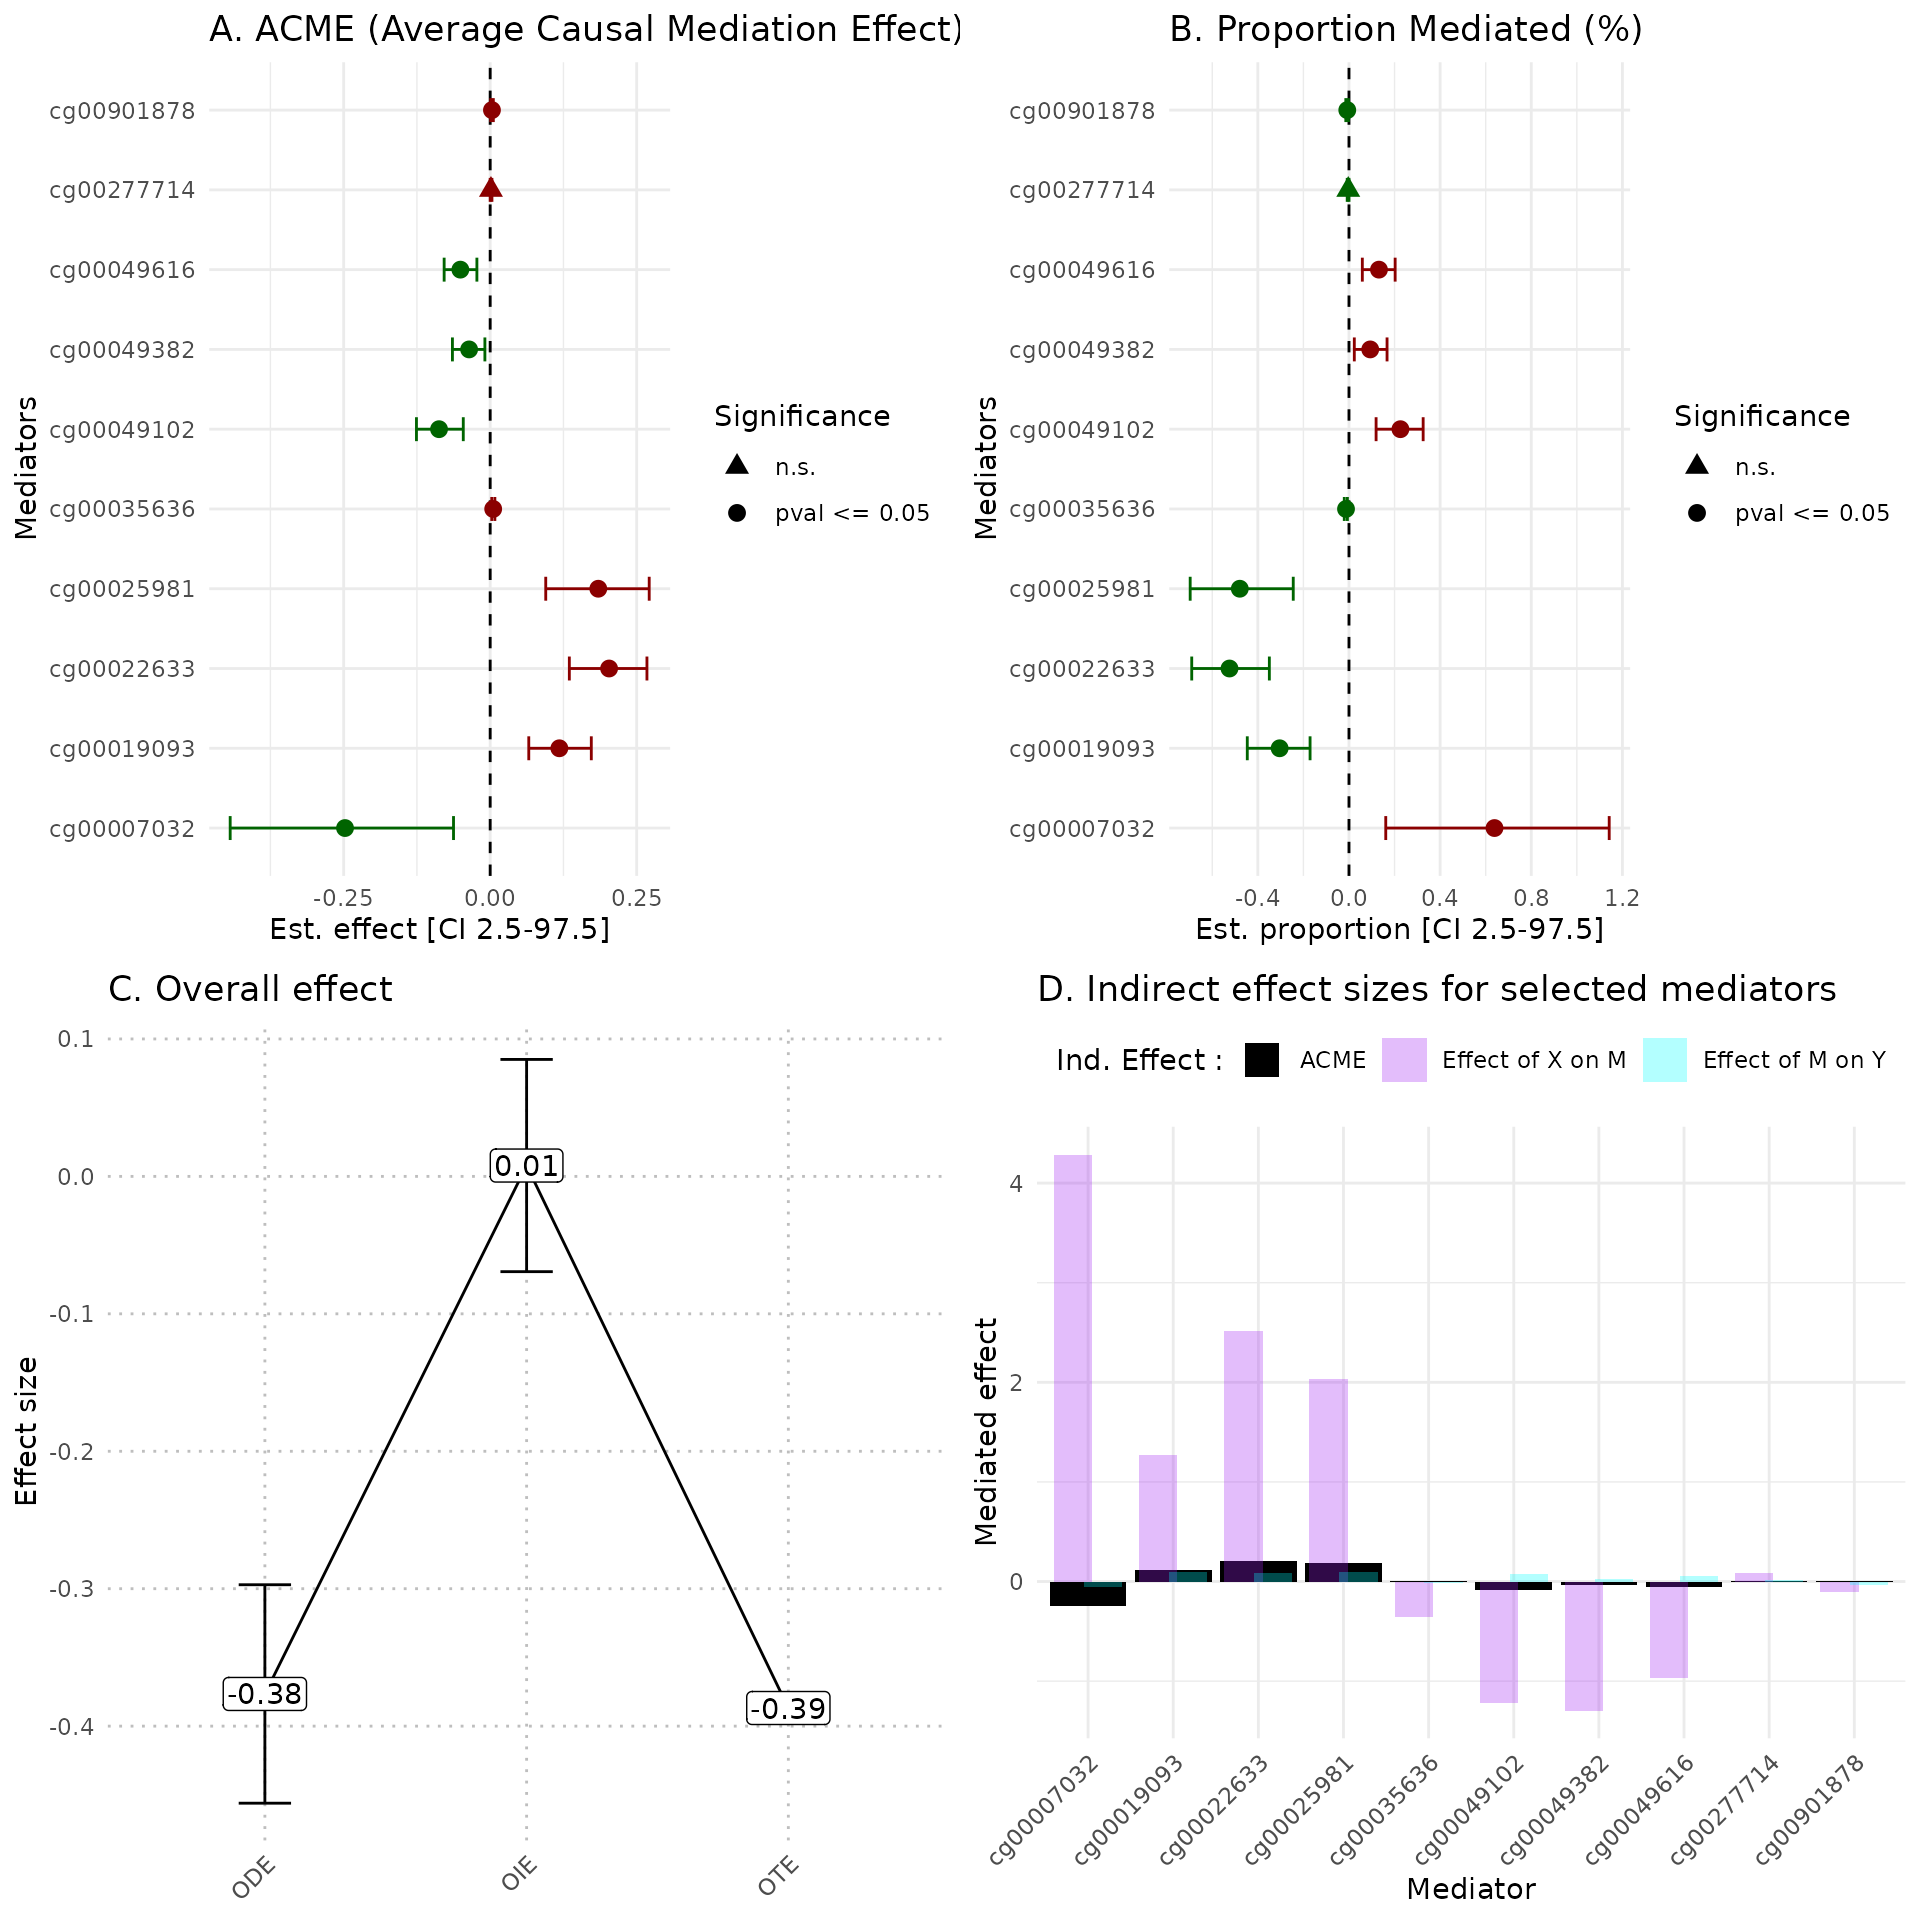
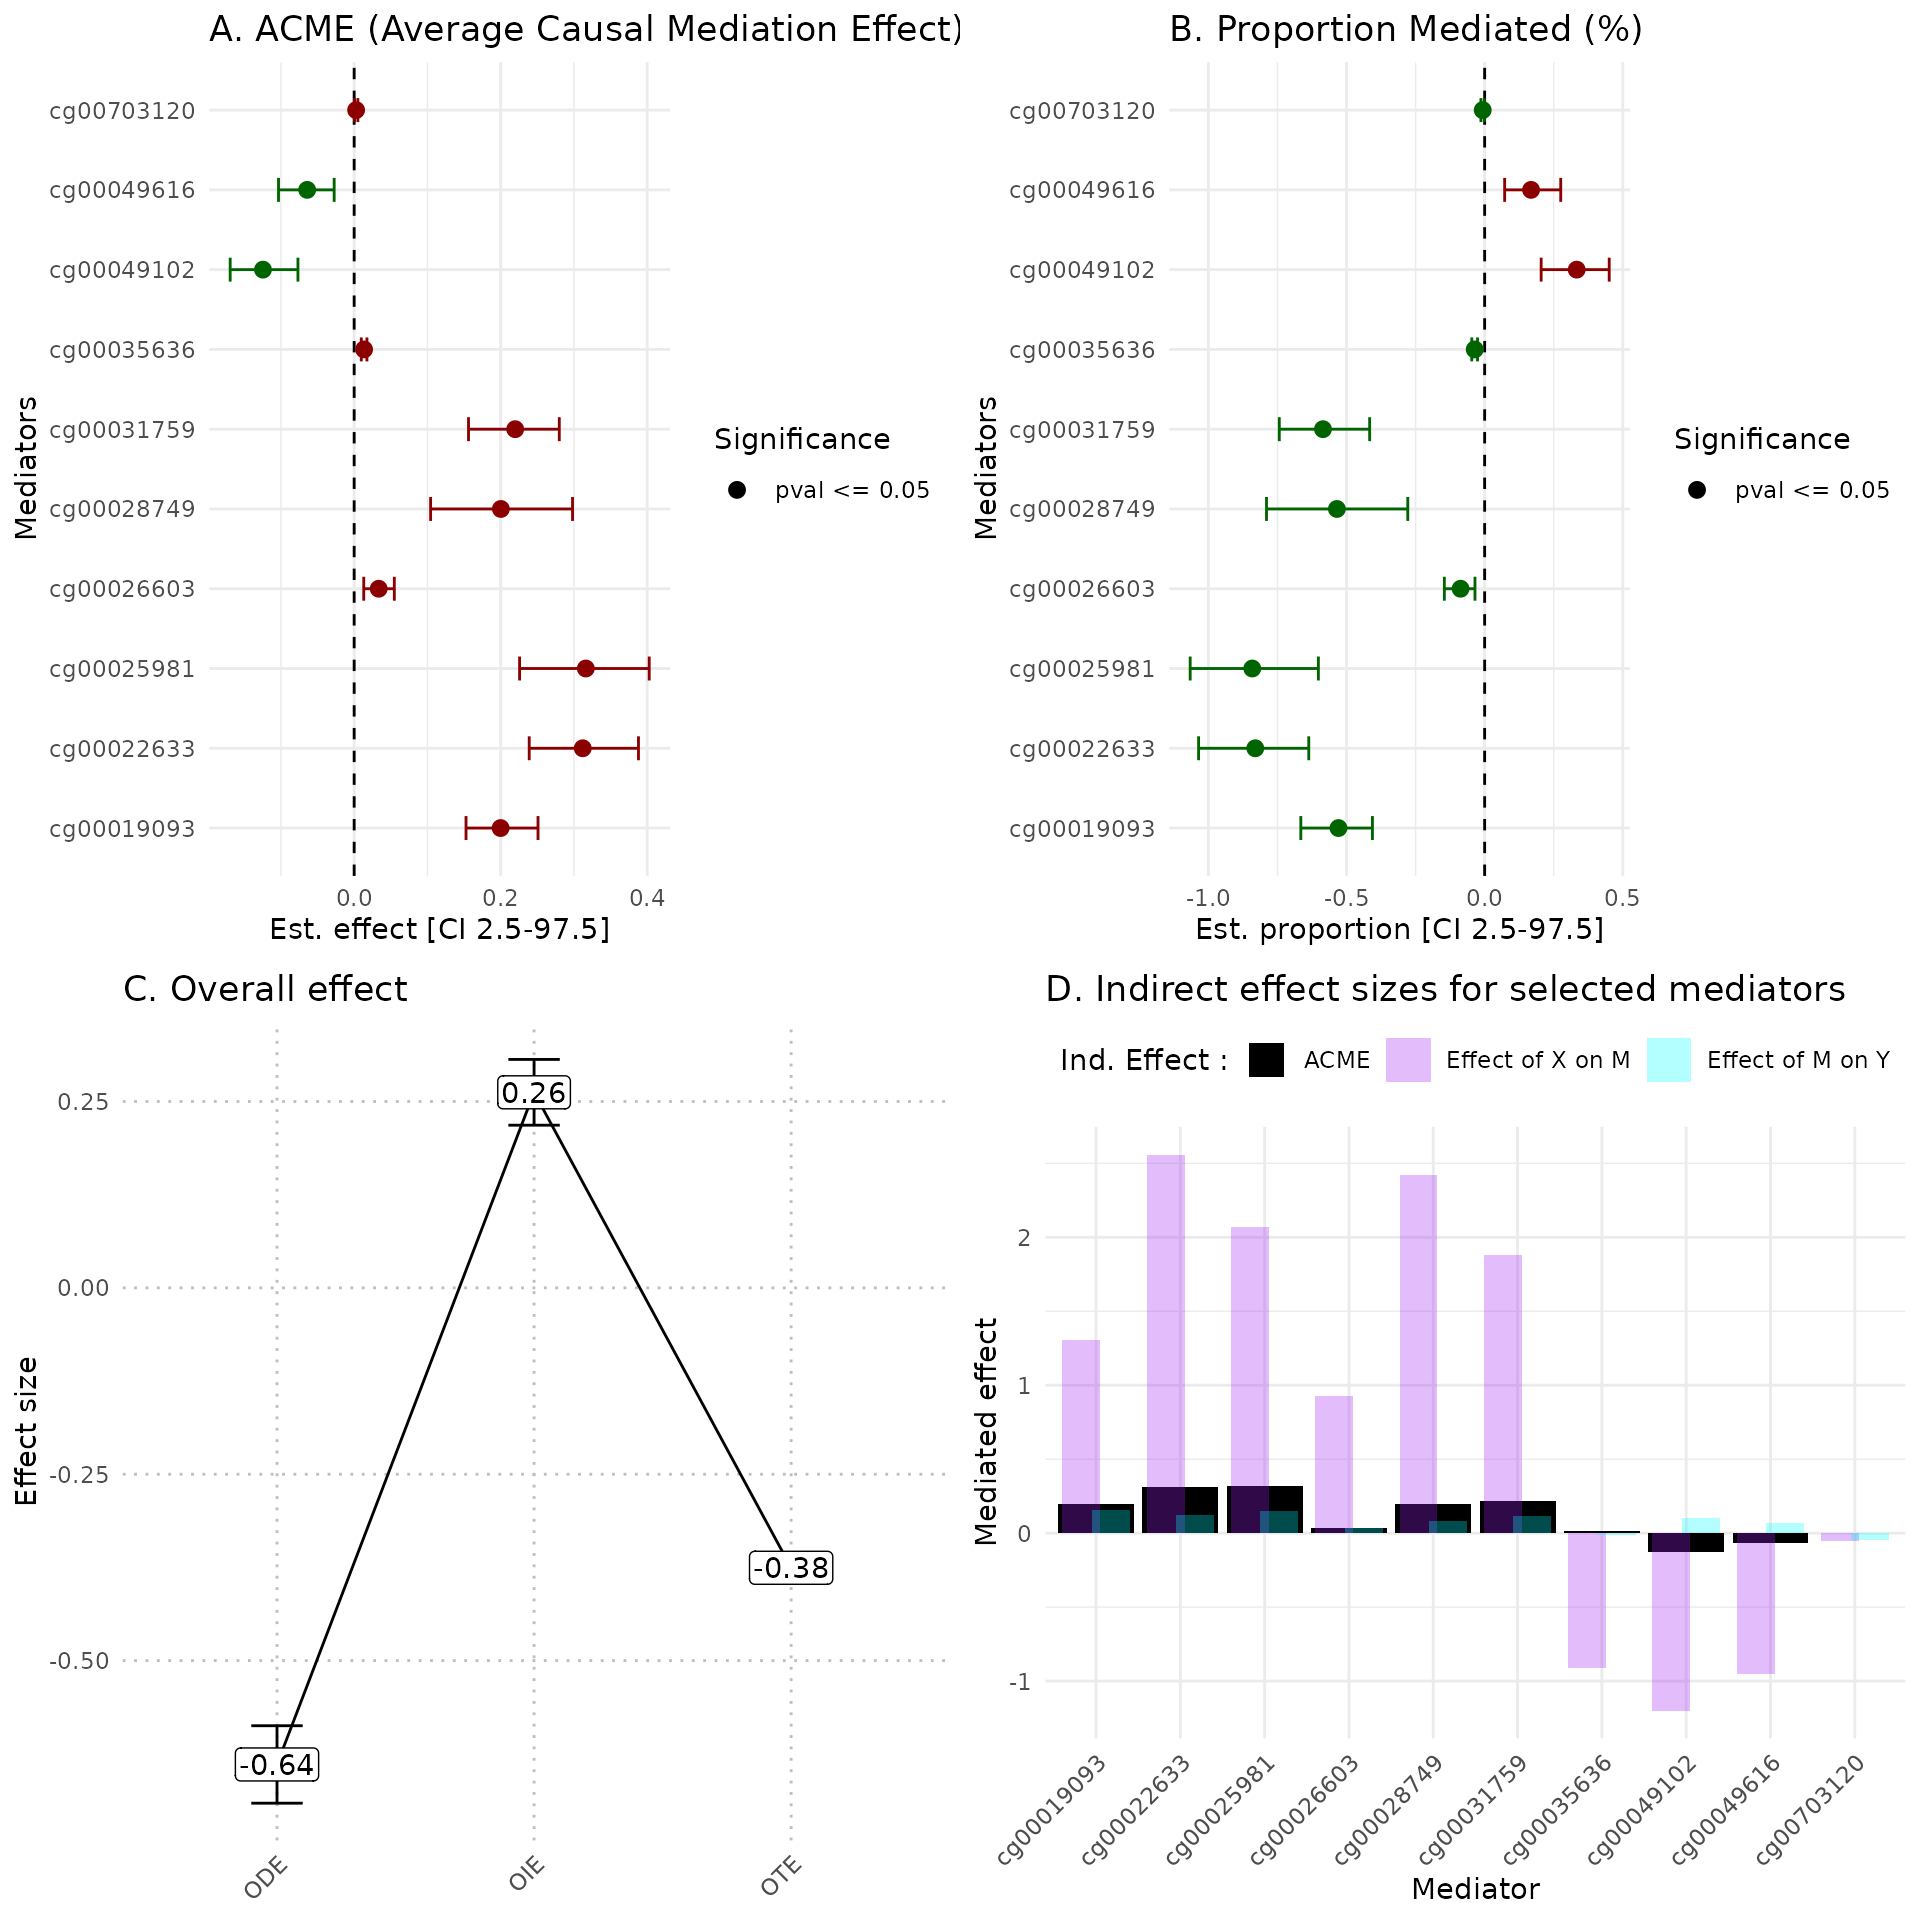
Deploying to gh-pages from @ bcm-uga/hdmax2@99096d8b7dce4b9bcfd8d7f2e5b6ec6be7dff2ab 🚀

diff --git a/articles/hdmax2_multivariate.html b/articles/hdmax2_multivariate.html
@@ -147,7 +147,7 @@ selects all components just before the line flattens out, <span class="math inli
 <p><img src="hdmax2_multivariate_files/figure-html/pca%20for%20latent%20factor-1.png" width="700"></p>
 <div class="sourceCode" id="cb4"><pre class="downlit sourceCode r">
 <code class="sourceCode R"><span></span>
-<span><span class="va">K</span><span class="op">=</span><span class="fl">5</span> <span class="co">#pca conclusion : it is better to select too many factors that too few</span></span></code></pre></div>
+<span><span class="va">K</span><span class="op">=</span><span class="fl">4</span> <span class="co">#pca conclusion : it is better to select too many factors that too few</span></span></code></pre></div>
 </div>
 <div class="section level2">
 <h2 id="use-case-multivariate-exposure-and-continuous-outcome">Use case <em>multivariate exposure</em> and <em>continuous
@@ -224,20 +224,20 @@ test as an example.</p>
 <code class="sourceCode R"><span><span class="co">## Selecting top 10 mediators</span></span>
 <span><span class="va">mediators_top10</span> <span class="op">=</span> <span class="va">M</span><span class="op">[</span>,<span class="fu"><a href="https://rdrr.io/r/base/names.html" class="external-link">names</a></span><span class="op">(</span><span class="fu"><a href="https://rdrr.io/r/base/sort.html" class="external-link">sort</a></span><span class="op">(</span><span class="va">hdmax2_step1</span><span class="op">$</span><span class="va">max2_pvalues</span><span class="op">)</span><span class="op">[</span><span class="fl">1</span><span class="op">:</span><span class="fl">10</span><span class="op">]</span><span class="op">)</span><span class="op">]</span></span>
 <span><span class="fu"><a href="https://rdrr.io/r/utils/head.html" class="external-link">head</a></span><span class="op">(</span><span class="va">mediators_top10</span><span class="op">)</span></span>
-<span><span class="co">#&gt;            cg00007032 cg00022633 cg00025981 cg00014667 cg00028749 cg00019093</span></span>
-<span><span class="co">#&gt; GSM1051525   1.764355   3.042535   1.987983   2.104173   2.020358   2.021450</span></span>
-<span><span class="co">#&gt; GSM1051526   6.324724   7.291695   5.055701   5.692560   5.374205   4.562818</span></span>
-<span><span class="co">#&gt; GSM1051527   7.849346   8.603409   6.022010   6.884147   6.420444   5.316097</span></span>
-<span><span class="co">#&gt; GSM1051528   6.590844   7.295384   5.110906   5.896802   5.434230   4.522164</span></span>
-<span><span class="co">#&gt; GSM1051529   2.352573   3.809111   2.515193   2.569591   2.567937   2.521325</span></span>
-<span><span class="co">#&gt; GSM1051530   7.989509   9.701877   6.659326   7.019162   7.011228   6.110346</span></span>
-<span><span class="co">#&gt;            cg00031759 cg00018896 cg00012692 cg00009871</span></span>
-<span><span class="co">#&gt; GSM1051525   2.229753   2.200426   1.284970   1.661390</span></span>
-<span><span class="co">#&gt; GSM1051526   5.322832   5.962785   4.653031   3.913059</span></span>
-<span><span class="co">#&gt; GSM1051527   6.260643   7.210383   5.781892   4.667452</span></span>
-<span><span class="co">#&gt; GSM1051528   5.310325   6.173285   4.873684   4.049565</span></span>
-<span><span class="co">#&gt; GSM1051529   2.784983   2.615735   1.724780   1.973782</span></span>
-<span><span class="co">#&gt; GSM1051530   7.033794   7.400408   5.875805   4.791390</span></span></code></pre></div>
+<span><span class="co">#&gt;            cg00007032 cg00022633 cg00025981 cg00031759 cg00028749 cg00019093</span></span>
+<span><span class="co">#&gt; GSM1051525   1.764355   3.042535   1.987983   2.229753   2.020358   2.021450</span></span>
+<span><span class="co">#&gt; GSM1051526   6.324724   7.291695   5.055701   5.322832   5.374205   4.562818</span></span>
+<span><span class="co">#&gt; GSM1051527   7.849346   8.603409   6.022010   6.260643   6.420444   5.316097</span></span>
+<span><span class="co">#&gt; GSM1051528   6.590844   7.295384   5.110906   5.310325   5.434230   4.522164</span></span>
+<span><span class="co">#&gt; GSM1051529   2.352573   3.809111   2.515193   2.784983   2.567937   2.521325</span></span>
+<span><span class="co">#&gt; GSM1051530   7.989509   9.701877   6.659326   7.033794   7.011228   6.110346</span></span>
+<span><span class="co">#&gt;            cg00014667 cg00012692 cg00018896 cg00005740</span></span>
+<span><span class="co">#&gt; GSM1051525   2.104173   1.284970   2.200426   2.052600</span></span>
+<span><span class="co">#&gt; GSM1051526   5.692560   4.653031   5.962785   5.143245</span></span>
+<span><span class="co">#&gt; GSM1051527   6.884147   5.781892   7.210383   6.173062</span></span>
+<span><span class="co">#&gt; GSM1051528   5.896802   4.873684   6.173285   5.317930</span></span>
+<span><span class="co">#&gt; GSM1051529   2.569591   1.724780   2.615735   2.445169</span></span>
+<span><span class="co">#&gt; GSM1051530   7.019162   5.875805   7.400408   6.219636</span></span></code></pre></div>
 </div>
 <div class="section level3">
 <h3 id="step-2-estimation-of-the-indirect-effect">STEP 2 : estimation of the indirect effect<a class="anchor" aria-label="anchor" href="#step-2-estimation-of-the-indirect-effect"></a>
@@ -278,21 +278,6 @@ deviations.</p>
 <code class="sourceCode R"><span></span>
 <span><span class="va">hdmax2_step2</span> <span class="op">=</span> <span class="fu">hdmax2</span><span class="fu">::</span><span class="fu"><a href="../reference/estimate_effect.html">estimate_effect</a></span><span class="op">(</span>object <span class="op">=</span> <span class="va">hdmax2_step1</span>,</span>
 <span>                                       m <span class="op">=</span> <span class="va">mediators_top10</span><span class="op">)</span></span></code></pre></div>
-<p>This step use <code><a href="https://rdrr.io/pkg/mediation/man/mediate.html" class="external-link">mediation::mediate</a></code> function to obtain
-several effects estimation:</p>
-<ul>
-<li><p>ACME Average Causal Mediation Effect</p></li>
-<li><p>PM Proportion Mediate</p></li>
-<li><p>TE total effect</p></li>
-<li><p>ADE Average Direct Effect</p></li>
-</ul>
-<p>This step also compute Overall effects :</p>
-<ul>
-<li><p>OIE (Indirect effect)</p></li>
-<li><p>ODE (Direct Effect)</p></li>
-<li><p>OTE (Total Effect)</p></li>
-</ul>
-<p>And regression effects size.</p>
 </div>
 <div class="section level3">
 <h3 id="vizualisation-of-results">Vizualisation of results<a class="anchor" aria-label="anchor" href="#vizualisation-of-results"></a>

diff --git a/articles/hdmax2_univariate.html b/articles/hdmax2_univariate.html
@@ -152,7 +152,7 @@ selects all components just before the line flattens out, <span class="math inli
 <p><img src="hdmax2_univariate_files/figure-html/pca%20for%20latent%20factor-1.png" width="700"></p>
 <div class="sourceCode" id="cb4"><pre class="downlit sourceCode r">
 <code class="sourceCode R"><span></span>
-<span><span class="va">K</span><span class="op">=</span><span class="fl">8</span> <span class="co">#pca conclusion : it is better to select too many factors that too few</span></span></code></pre></div>
+<span><span class="va">K</span><span class="op">=</span><span class="fl">4</span> <span class="co">#pca conclusion : it is better to select too many factors that too few</span></span></code></pre></div>
 </div>
 <div class="section level2">
 <h2 id="binary-exposure-and-continuous-outcome">
@@ -226,20 +226,20 @@ test as an example.</p>
 <span></span>
 <span><span class="va">mediators_top10</span> <span class="op">=</span> <span class="va">M</span><span class="op">[</span>,<span class="fu"><a href="https://rdrr.io/r/base/names.html" class="external-link">names</a></span><span class="op">(</span><span class="fu"><a href="https://rdrr.io/r/base/sort.html" class="external-link">sort</a></span><span class="op">(</span><span class="va">hdmax2_step1</span><span class="op">$</span><span class="va">max2_pvalues</span><span class="op">)</span><span class="op">[</span><span class="fl">1</span><span class="op">:</span><span class="fl">10</span><span class="op">]</span><span class="op">)</span><span class="op">]</span></span>
 <span><span class="fu"><a href="https://rdrr.io/r/utils/head.html" class="external-link">head</a></span><span class="op">(</span><span class="va">mediators_top10</span><span class="op">)</span></span>
-<span><span class="co">#&gt;            cg00022633 cg00035636 cg00049102 cg00019093 cg00025981 cg00049616</span></span>
-<span><span class="co">#&gt; GSM1051525   1.480526   1.498758   2.029784   1.091212  0.8611761   1.767392</span></span>
-<span><span class="co">#&gt; GSM1051526   5.463677   1.481787   2.000932   3.474162  3.7370006   1.743678</span></span>
-<span><span class="co">#&gt; GSM1051527   5.334700   1.439573   1.891203   3.369454  3.6640206   1.667866</span></span>
-<span><span class="co">#&gt; GSM1051528   5.225207   1.443054   1.816579   3.289293  3.6175162   1.599476</span></span>
-<span><span class="co">#&gt; GSM1051529   1.691596   1.603649   2.217188   1.260262  0.9876545   1.886485</span></span>
-<span><span class="co">#&gt; GSM1051530   6.307245   2.310486   2.725880   4.088710  4.2104976   2.324293</span></span>
-<span><span class="co">#&gt;            cg00049382 cg00007032 cg00901878 cg00277714</span></span>
-<span><span class="co">#&gt; GSM1051525   1.315628 0.09865871  0.8563415  0.5093575</span></span>
-<span><span class="co">#&gt; GSM1051526   1.276564 4.37536259  0.8440825  0.5001938</span></span>
-<span><span class="co">#&gt; GSM1051527   1.142801 4.36365955  0.8870115  0.4030367</span></span>
-<span><span class="co">#&gt; GSM1051528   1.073051 4.38324865  0.7891191  0.4481790</span></span>
-<span><span class="co">#&gt; GSM1051529   1.545162 0.09449677  0.8816612  0.5376336</span></span>
-<span><span class="co">#&gt; GSM1051530   2.068434 4.36954013  0.8426222  0.5056766</span></span></code></pre></div>
+<span><span class="co">#&gt;            cg00022633 cg00019093 cg00025981 cg00031759 cg00035636 cg00049102</span></span>
+<span><span class="co">#&gt; GSM1051525   1.480526   1.091212  0.8611761   1.096765   1.498758   2.029784</span></span>
+<span><span class="co">#&gt; GSM1051526   5.463677   3.474162  3.7370006   3.996897   1.481787   2.000932</span></span>
+<span><span class="co">#&gt; GSM1051527   5.334700   3.369454  3.6640206   3.889718   1.439573   1.891203</span></span>
+<span><span class="co">#&gt; GSM1051528   5.225207   3.289293  3.6175162   3.808743   1.443054   1.816579</span></span>
+<span><span class="co">#&gt; GSM1051529   1.691596   1.260262  0.9876545   1.249065   1.603649   2.217188</span></span>
+<span><span class="co">#&gt; GSM1051530   6.307245   4.088710  4.2104976   4.571531   2.310486   2.725880</span></span>
+<span><span class="co">#&gt;            cg00028749 cg00049616 cg00026603 cg00703120</span></span>
+<span><span class="co">#&gt; GSM1051525  0.7984107   1.767392   1.840380  0.8521711</span></span>
+<span><span class="co">#&gt; GSM1051526  3.9441627   1.743678   3.914640  0.8315540</span></span>
+<span><span class="co">#&gt; GSM1051527  3.8633605   1.667866   3.856255  0.8473967</span></span>
+<span><span class="co">#&gt; GSM1051528  3.8147481   1.599476   3.748134  0.8744509</span></span>
+<span><span class="co">#&gt; GSM1051529  0.9114222   1.886485   1.997508  0.8602605</span></span>
+<span><span class="co">#&gt; GSM1051530  4.3556358   2.324293   4.553996  0.8814345</span></span></code></pre></div>
 </div>
 <div class="section level4">
 <h4 id="step-2">STEP 2<a class="anchor" aria-label="anchor" href="#step-2"></a>
